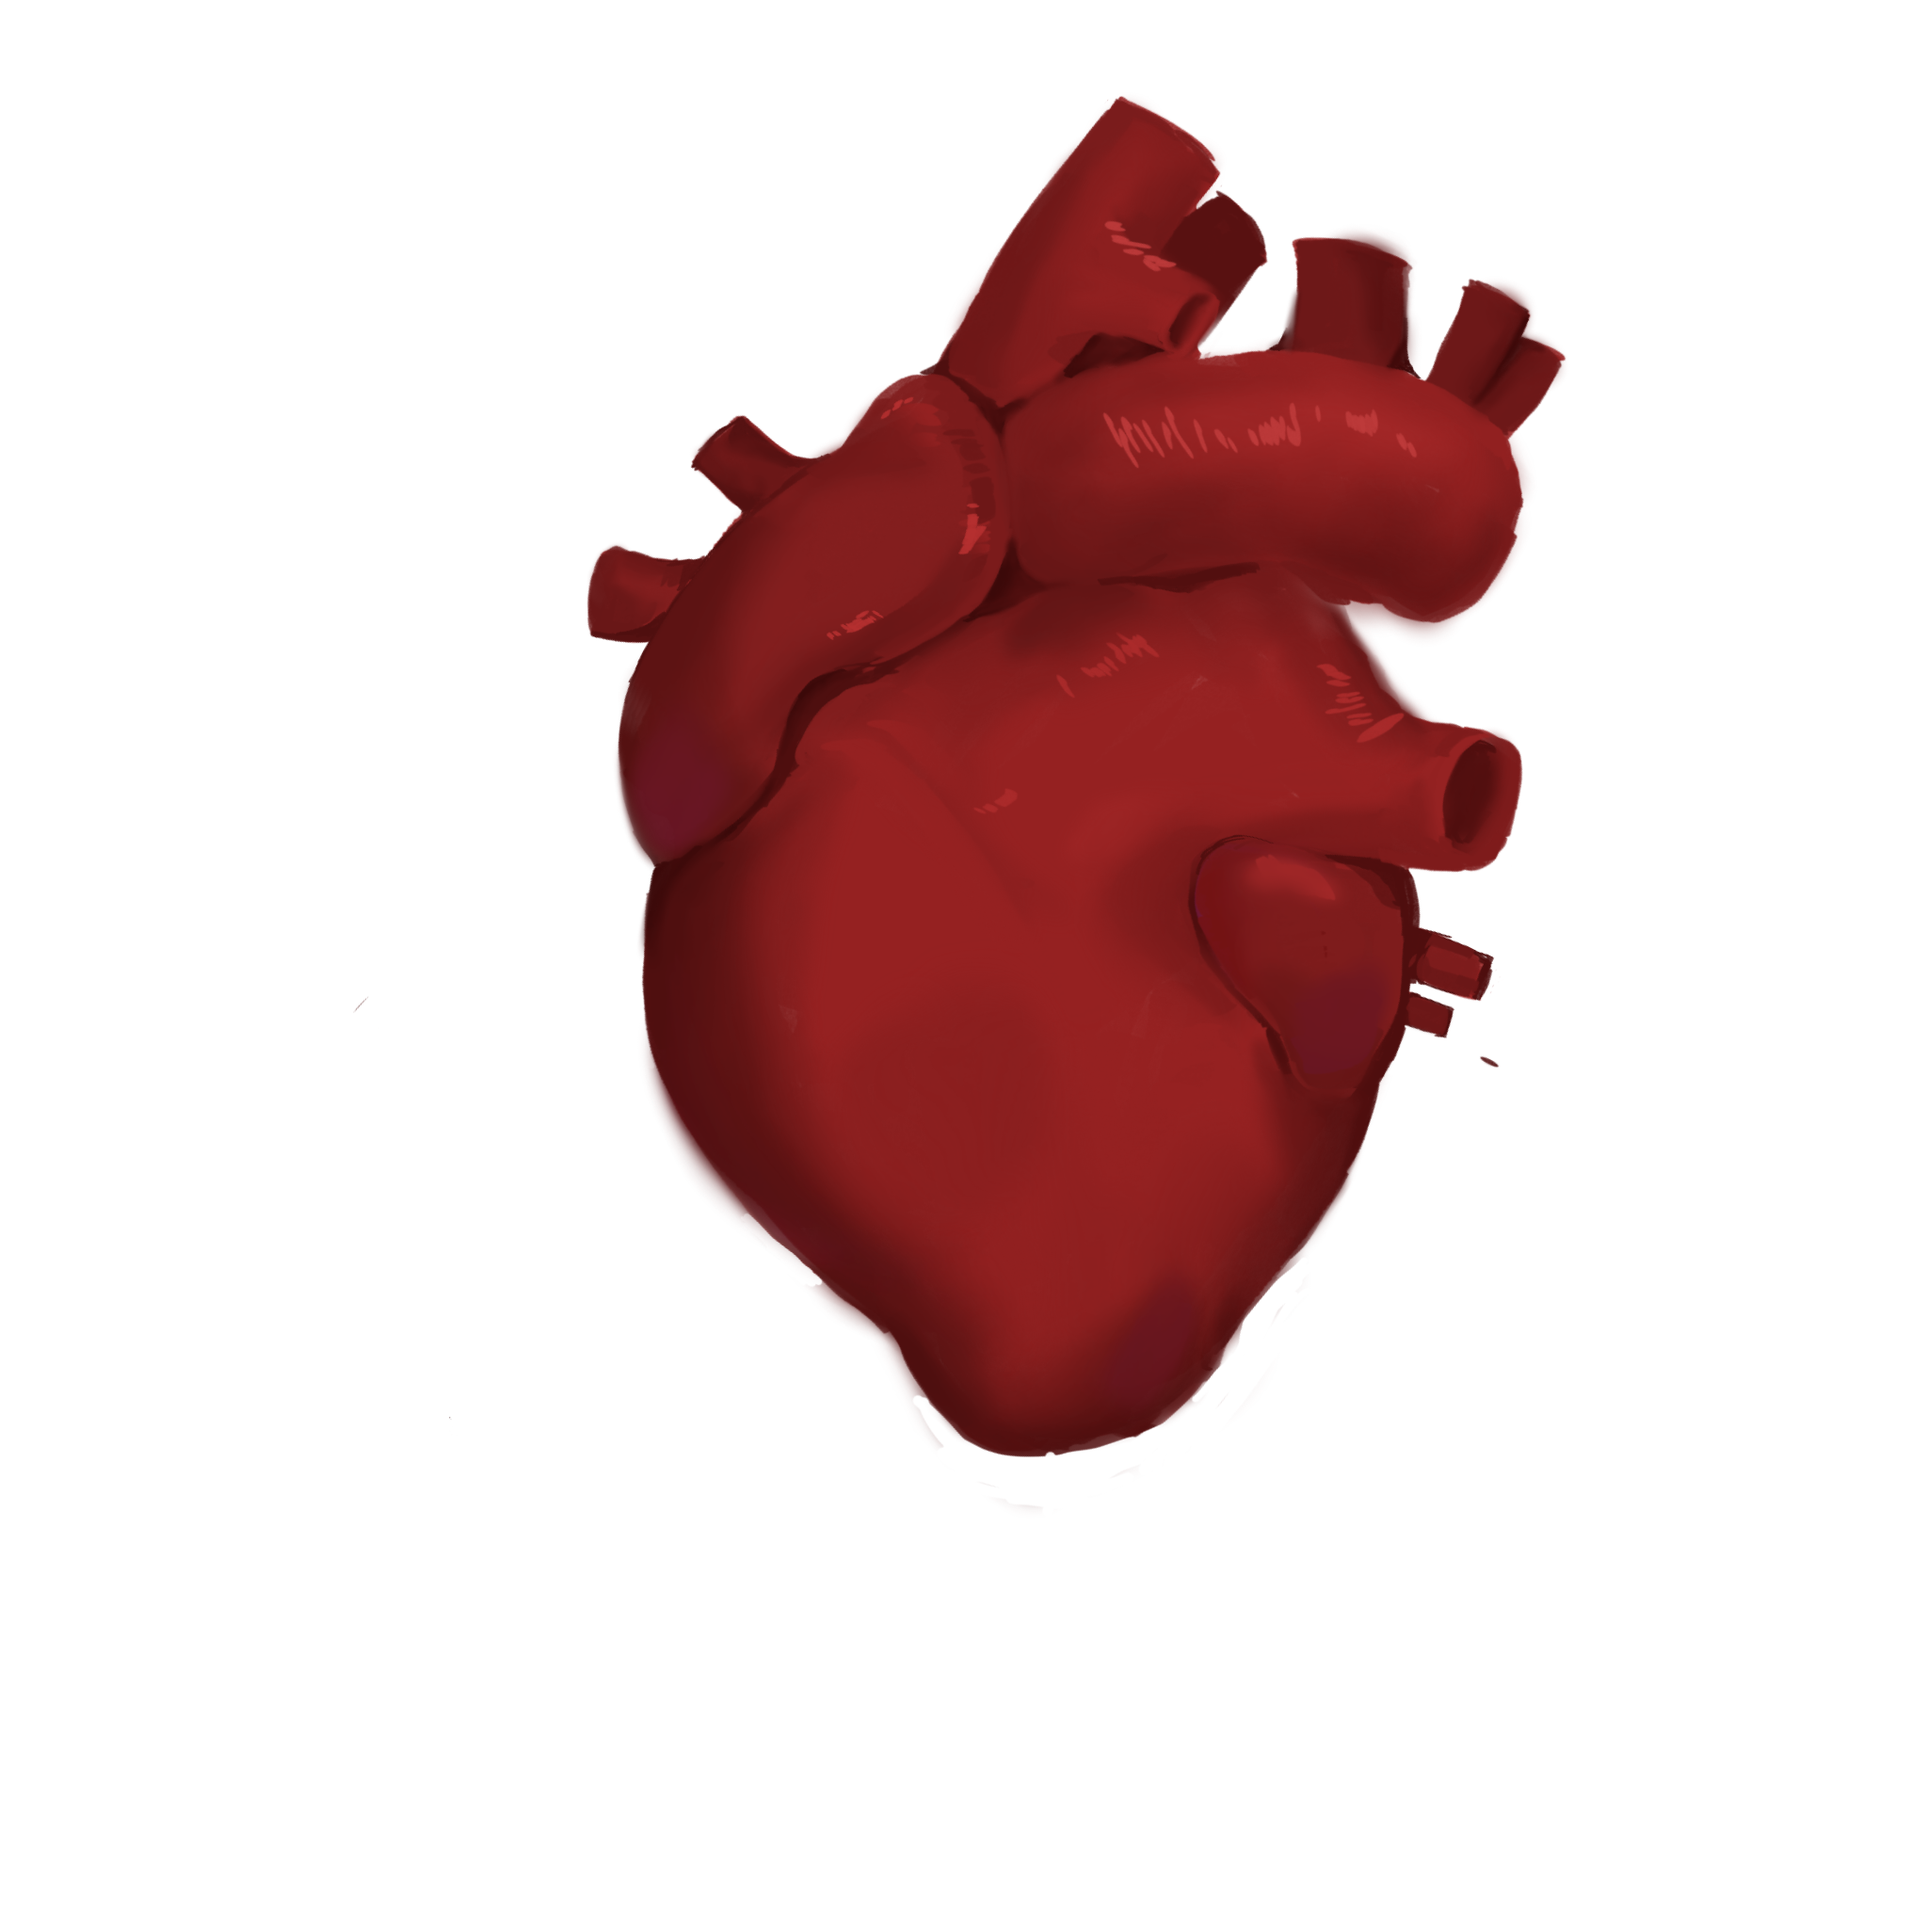
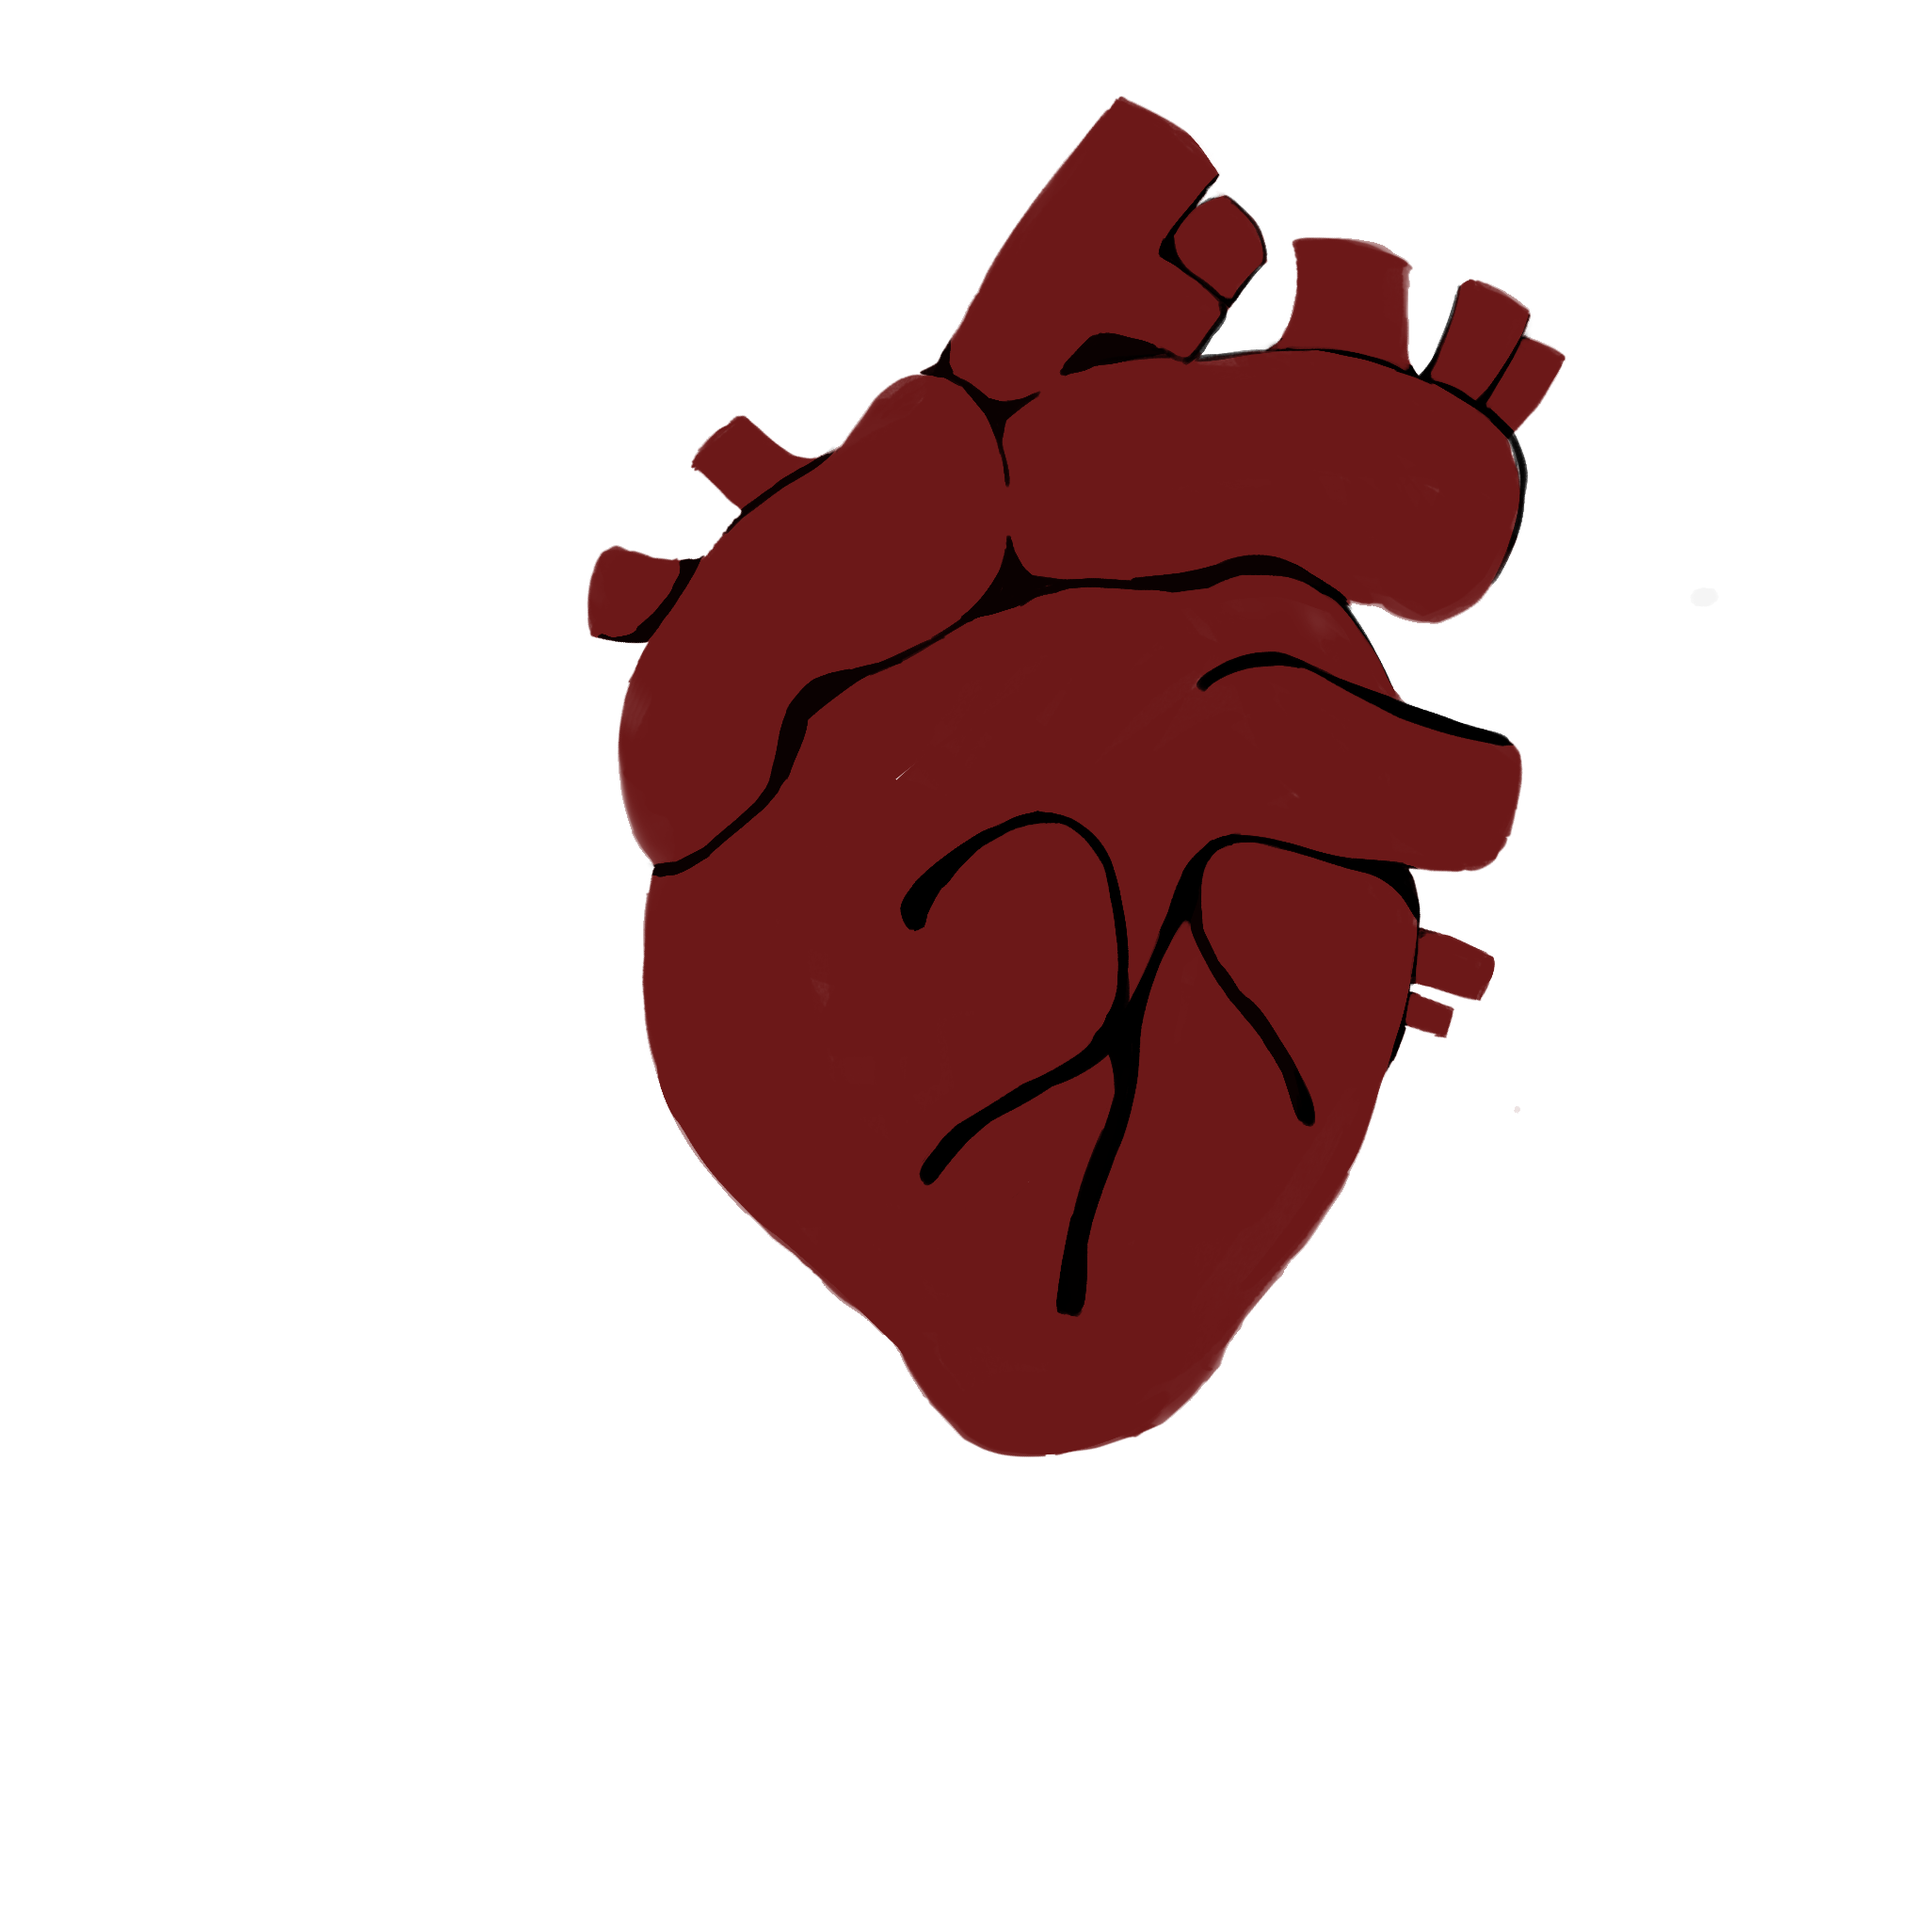
[task]第十六版

diff --git a/js/motion.js b/js/motion.js
@@ -2906,7 +2906,7 @@ document.addEventListener("DOMContentLoaded", () => {
         return;
       }
       if (!rhythmIntroHint) return;
-      rhythmIntroHint.textContent = "skip ▸";
+      rhythmIntroHint.textContent = "next ▸";
       rhythmIntroHint.classList.add("is-visible");
     });
   }
@@ -2924,7 +2924,7 @@ document.addEventListener("DOMContentLoaded", () => {
     }
     rhythmIntroDialogueIndex = 0;
     if (rhythmIntroHint) {
-      rhythmIntroHint.textContent = "skip ▸";
+      rhythmIntroHint.textContent = "next ▸";
       rhythmIntroHint.classList.remove("is-visible");
     }
     playRhythmIntroDialogue(0);
@@ -2960,7 +2960,7 @@ document.addEventListener("DOMContentLoaded", () => {
         excuseIntroDialogueNextHint.classList.add("is-visible");
         return;
       }
-      excuseIntroHint.textContent = "skip ▸";
+      excuseIntroHint.textContent = "next ▸";
       excuseIntroHint.classList.add("is-visible");
     });
   }
@@ -2975,7 +2975,7 @@ document.addEventListener("DOMContentLoaded", () => {
     });
     excuseIntroDialogueNextHint.classList.remove("is-visible");
     excuseIntroDialogueIndex = 0;
-    excuseIntroHint.textContent = "skip ▸";
+    excuseIntroHint.textContent = "next ▸";
     excuseIntroHint.classList.remove("is-visible");
     playExcuseIntroDialogue(0);
   });
@@ -3220,7 +3220,7 @@ document.addEventListener("DOMContentLoaded", () => {
             32,
             () => {
               if (rhythmActionBtn) {
-                rhythmActionBtn.textContent = "skip ▾";
+                rhythmActionBtn.textContent = "next ▾";
                 rhythmActionBtn.dataset.outcome = "success";
                 rhythmActionBtn.disabled = false;
                 rhythmActionBtn.hidden = false;
@@ -3264,7 +3264,7 @@ document.addEventListener("DOMContentLoaded", () => {
             32,
             () => {
               if (rhythmActionBtn) {
-                rhythmActionBtn.textContent = "Skip ▸";
+                rhythmActionBtn.textContent = "next ▸";
                 rhythmActionBtn.dataset.outcome = "failure";
                 rhythmActionBtn.disabled = false;
                 rhythmActionBtn.hidden = false;

diff --git a/index.html b/index.html
@@ -751,7 +751,7 @@
     </span>
     <span class="rhythm-intro-hint-1" id="rhythmIntroHint2">剩下五根蠟燭</span>
     <button type="button" class="rhythm-intro-hint-2" id="rhythmIntroHint">
-        Skip ▸
+        next ▸
     </button>
 </div>
 
@@ -894,7 +894,7 @@
     </span>
     <span class="rhythm-intro-hint-1">剩下兩根蠟燭</span>
     <button type="button" class="rhythm-intro-hint-2" id="excuseIntroHint">
-        Skip ▸
+        next ▸
     </button>
 </div>
 

diff --git a/css/style.css b/css/style.css
@@ -5265,8 +5265,8 @@ html,
 
     display: grid;
     place-items: center;
-    width: 48px;
-    height: 48px;
+    width: 80px;
+    height: 80px;
     padding: 0;
 
     border: 0;
@@ -5278,8 +5278,8 @@ html,
 }
 
 .opening-sound-btn svg {
-    width: 22px;
-    height: 22px;
+    width: 40px;
+    height: 40px;
 }
 
 .opening-sound-btn:not(.is-muted) .sound-muted-icon,
